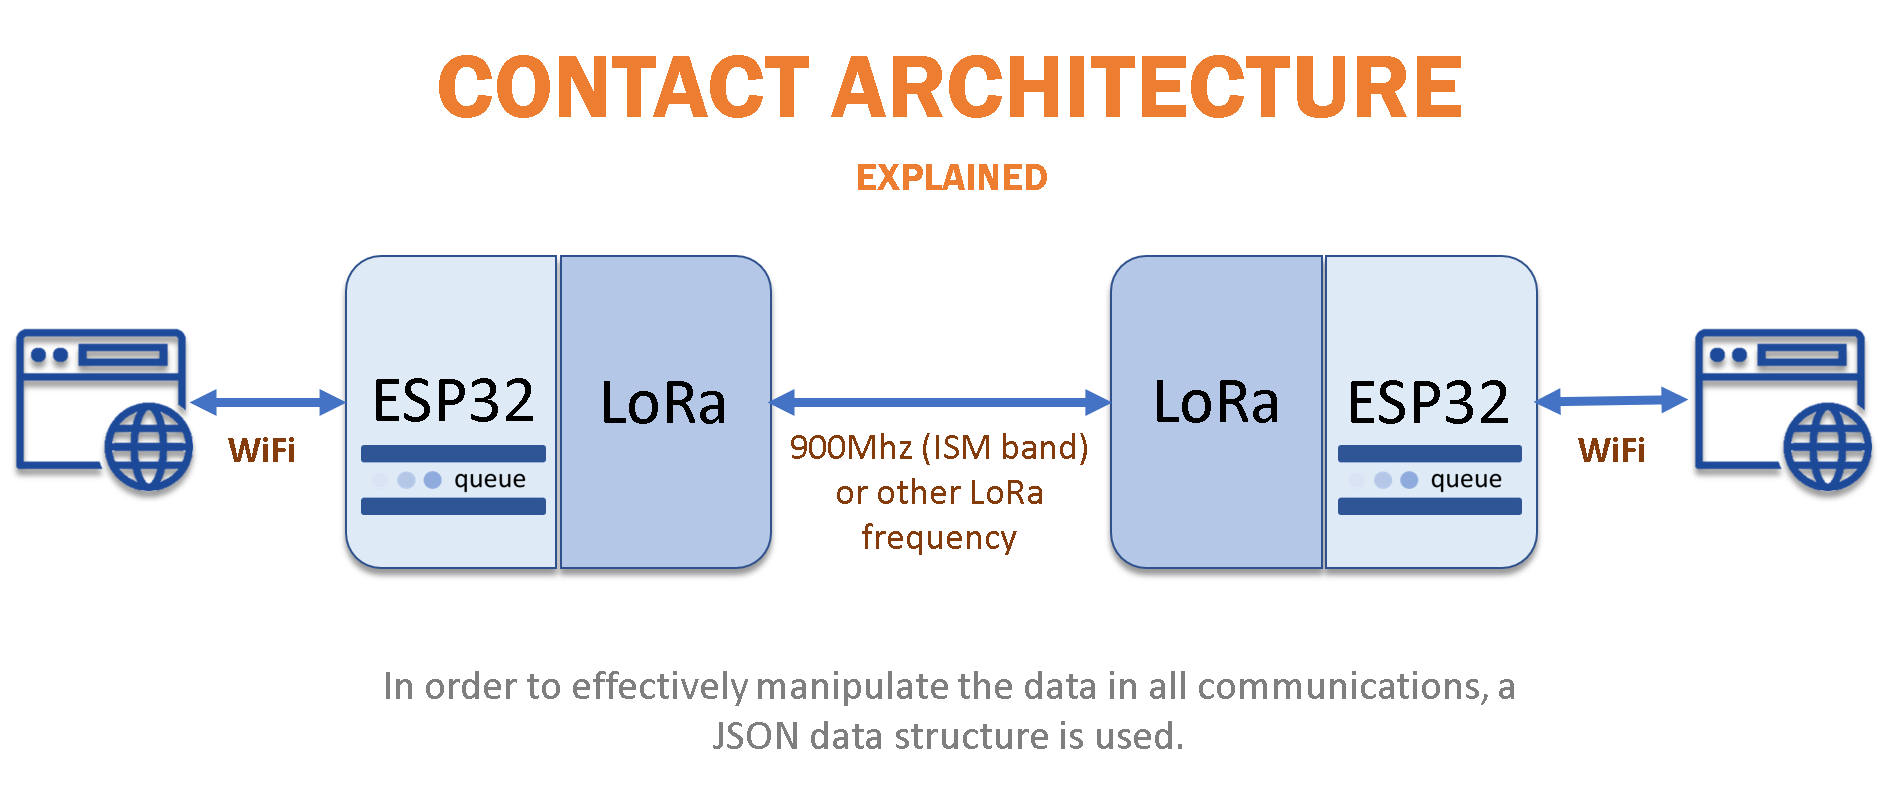
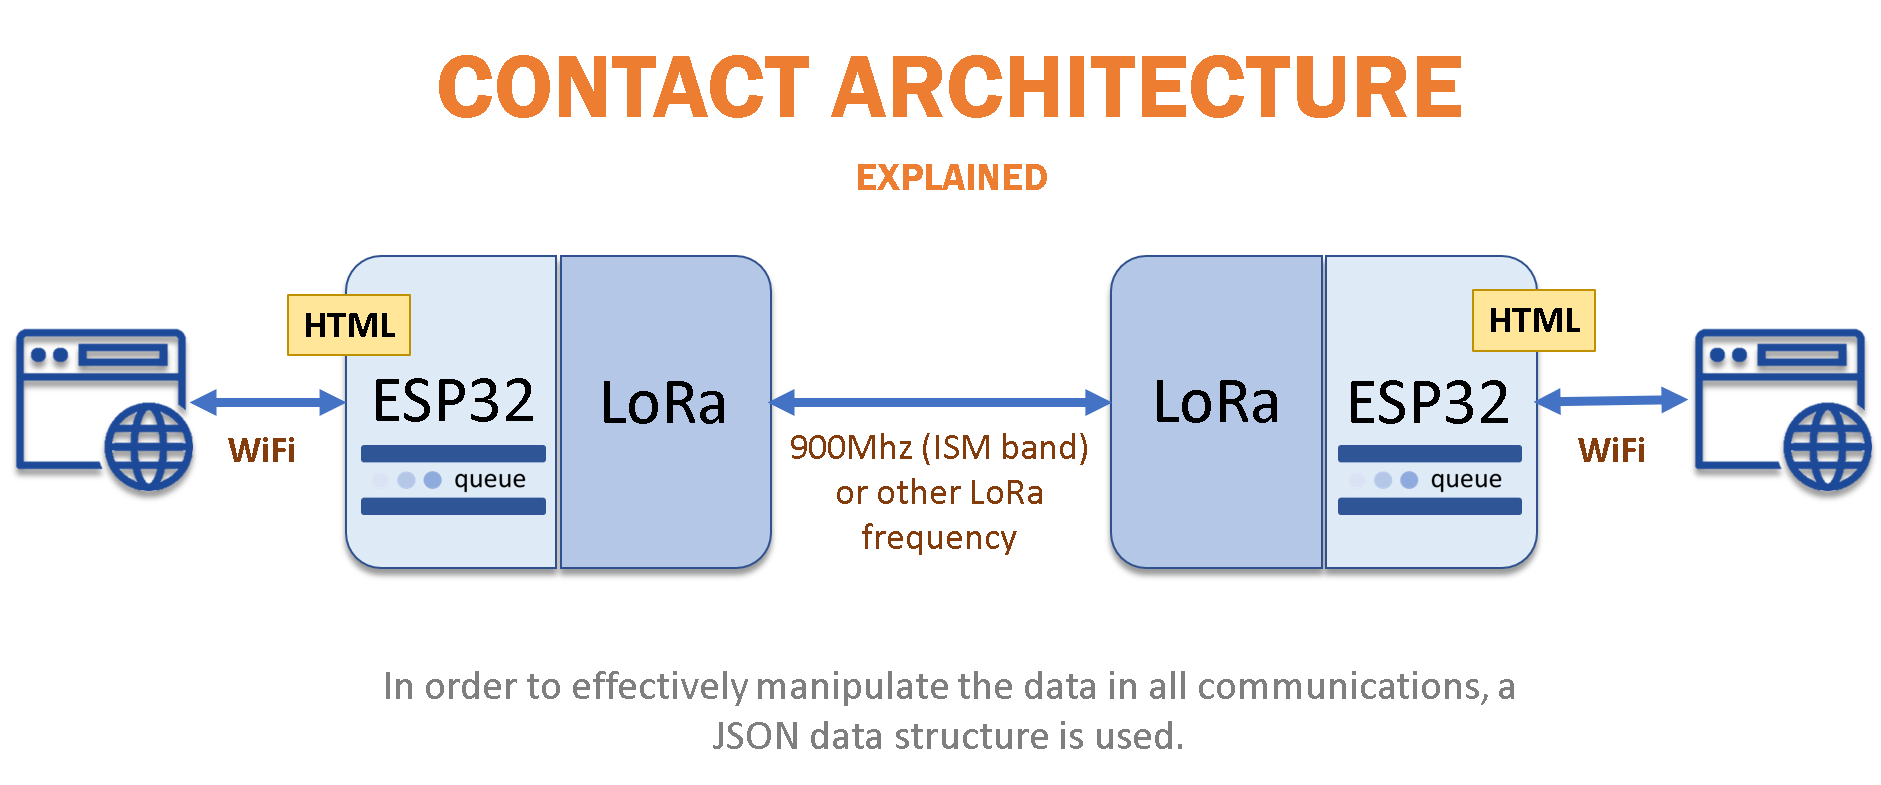
Update files

Changed region(s): [[0.7709, 0.3669, 0.8634, 0.4586], [0.1542, 0.3669, 0.2158, 0.4586]]

diff --git a/Platform/README.md b/Platform/README.md
@@ -8,7 +8,8 @@ This is why the integration of multiple programming languages such as C++,
 
 ## How Contact's elements work in between?
 
-There are technologies defined for particular developments. But the greatest benefit of technology is in the development of Open Information Systems.
+There are technologies defined for particular developments. But the greatest benefit of technology is in the development of Open Information Systems. Contact was developed thinking about solving perhaps the biggest problem in a natural disaster, the lack of services that allow communication. 
+Contact offers an embedded application to allow communication. But contact is not just an application and a communication device, it is a platform that allows increasing the support of communications between people in need and the rest of the planet. Contact allows to develop and integrate other interfaces for data capture in a simple way using technologies similar to RESTful or HTML injection
 
 ![Contact Platform](/Platform/images/contact-architecture.png)
 
@@ -18,8 +19,15 @@ The Contact code is divided into two layers.
 - The second layer, the **Contact Platform Front-end**, allows all the communication functions between the devices and the interaction with the device by the user. This second layer is encoded in HTML, Javascript and CSS.
 
 All layers work as state of the art watch's parts to get the most powerfull and simple communication device.
-<a href="https://youtu.be/MLwHU5oP0mU" target="_blank"><img src="images/contact-logo.png" 
-alt="Contact Video" width="200" height="auto" border="10" /></a>
+
+<a href="https://youtu.be/MLwHU5oP0mU" target="_blank">Click here see a video with a demo.<img src="images/contact-logo.png" 
+alt="Contact Video" width="100" height="auto" border="10" /></a>
+
+## Contact Architecture
+The main functionality of Contact is the ability to communicate between different devices. Contact uses WiFi communication to receive the data that it wants to transmit and in turn so that the user can request the data. The Contact code allows each unit to work as a Hotspot and Web Server at the same time. Through the Web Server in Contact the user can access different functions, such as a chat for communication between the Contact units, configuration screens for the units and screens that allow reading data sent through the Contact units and sending that data to other networks or the Internet.
+
+![Contact Detail Architecture](/Platform/images/contact-detail-architecture.png)
+
 
 ## Contact's Back-end - Code
 
@@ -29,9 +37,7 @@ The device has two hardware components. A LoRa module that allows the transmissi
 
 In order to receive and send messages, the unit uses the LoRa module and the WiFi network in the ESP32 at the same time through asynchronous functions and the elaboration of queues. Each received message is stored in a queue until the contact web communication interface requests the information. It is an advantage, because the user can access the last 50 messages received to the unit immediately connect through the web browser.
 
-![Contact Detail Architecture](/Platform/images/contact-detail-architecture.png)
-
-##### [Hardware Code]
+#### [Hardware Code]
 
 ```cpp
 
@@ -59,9 +65,66 @@ MESSAGE_TYPE rx_message_queue[MAX_RX_MESSAGES];
 MESSAGE_TYPE tx_message_queue[MAX_TX_MESSAGES];
 
 ```
-#### The WiFi Process on ESP32
+#### The Web Server Process on ESP32
 
-We can 
+Through the creation of a Web Server in the Contact unit, simple interfaces can be encoded using HTML or other programming languages.
+
+```cpp
+server.on("/get", HTTP_GET, [](AsyncWebServerRequest *request) {
+  // Read Received Messages from STACK
+    int paramsNmbr = request->params();
+    if ((paramsNmbr > 0) && (rx_MSG_CTR_Q > 0)){
+       AsyncWebParameter* p1 = request->getParam(0);
+       AsyncWebParameter* p2 = request->getParam(1);
+
+       int nLastReaded = String(p1->value()).toInt();
+       int bFirstTime = String(p2->value()).toInt();
+       );
+       if (bFirstTime == 0)
+           if (nLastReaded == (rx_MSG_CTR_Q - 1))
+               return;
+       
+       String jsonData = "{\"data\":[";
+       String msgdata = "";
+       int comma = (rx_MSG_CTR_Q - 1);
+       int nQueInit = 1;
+       int nStart = (bFirstTime == 1 ? nLastReaded : nLastReaded + 1); // nStart = 0 cambiado para no leer desde el inicio
+       
+       if (nLastReaded > rx_MSG_CTR_Q)
+          nQueInit = 2;
+       
+       for(int n = 1; n <= nQueInit; n++) {
+         if (nQueInit == 2) {
+            if (n == 1)
+              nStart = (nLastReaded + 1);
+            else
+              nStart = 0;
+         }         
+         for(int i = nStart; i < (nStart > rx_MSG_CTR_Q ? MAX_RX_MESSAGES : rx_MSG_CTR_Q); i++) {    
+            msgdata = rx_message_queue[i].data;    
+            jsonData += ("{\"pid\":" + ((String)rx_message_queue[i].packetId) + ", ");
+            jsonData += ("\"message\":\"" + msgdata + "\", ");
+            jsonData += ("\"txid\":\"" + ((String)rx_message_queue[i].TxID) + "\", " );
+            jsonData += ("\"pqty\":" + ((String)rx_message_queue[i].packetsQty) + ", " );
+            jsonData += ("\"pctr\":" + ((String)rx_message_queue[i].packetCtr) + ", " );
+            jsonData += ("\"ptype\":" + ((String)rx_message_queue[i].packetType) + ", " );
+            jsonData += ("\"pqid\":" + ((String)rx_message_queue[i].packetQId) + ", " );
+            jsonData += ("\"sender\":" + ((String)rx_message_queue[i].sender) + ", " );
+            jsonData += ("\"ttl\":" + ((String)rx_message_queue[i].ttl) + "}" );
+            if (i < comma) {
+              jsonData += ",";
+            }
+         }   
+         if ((nQueInit == 2) && (n < 2)) {
+            jsonData += ",";
+         }          
+       }
+       jsonData += "]}\n\n";  
+
+       request->send(200, "text/json",  jsonData);
+    } // end if
+  });
+```
 
 #### Forward Messages to Other Units - Our Simple Mesh
 Another very important option is the ability to forward messages to other units. For this, each package is created with a specific structure using the JSON technology and it is checked if the message belongs to the unit or if it is necessary to send the package again.
